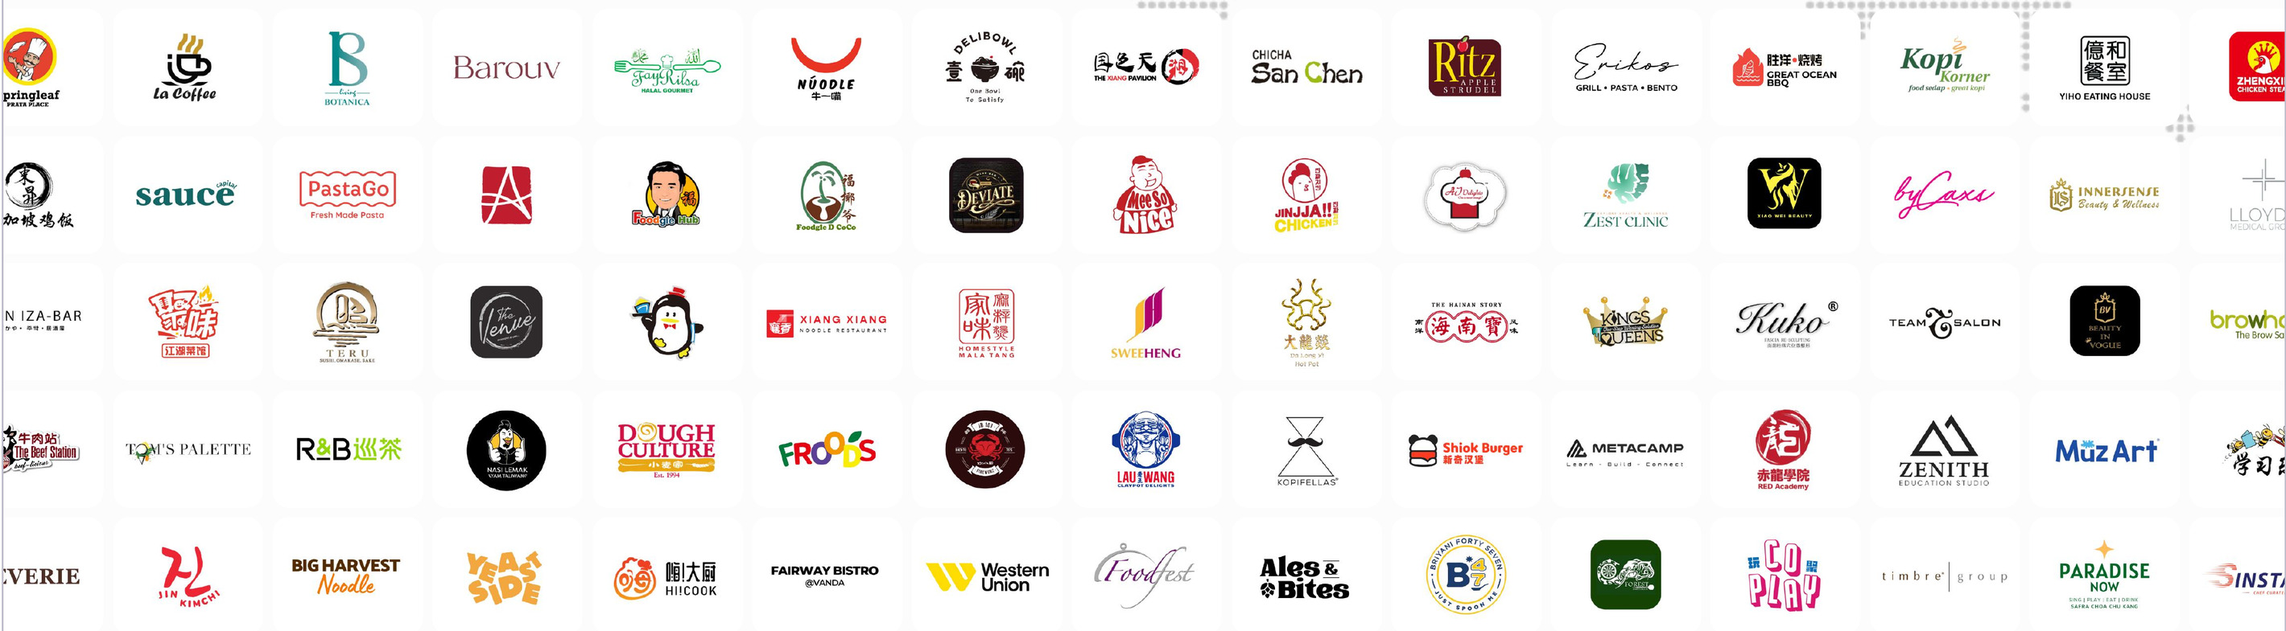
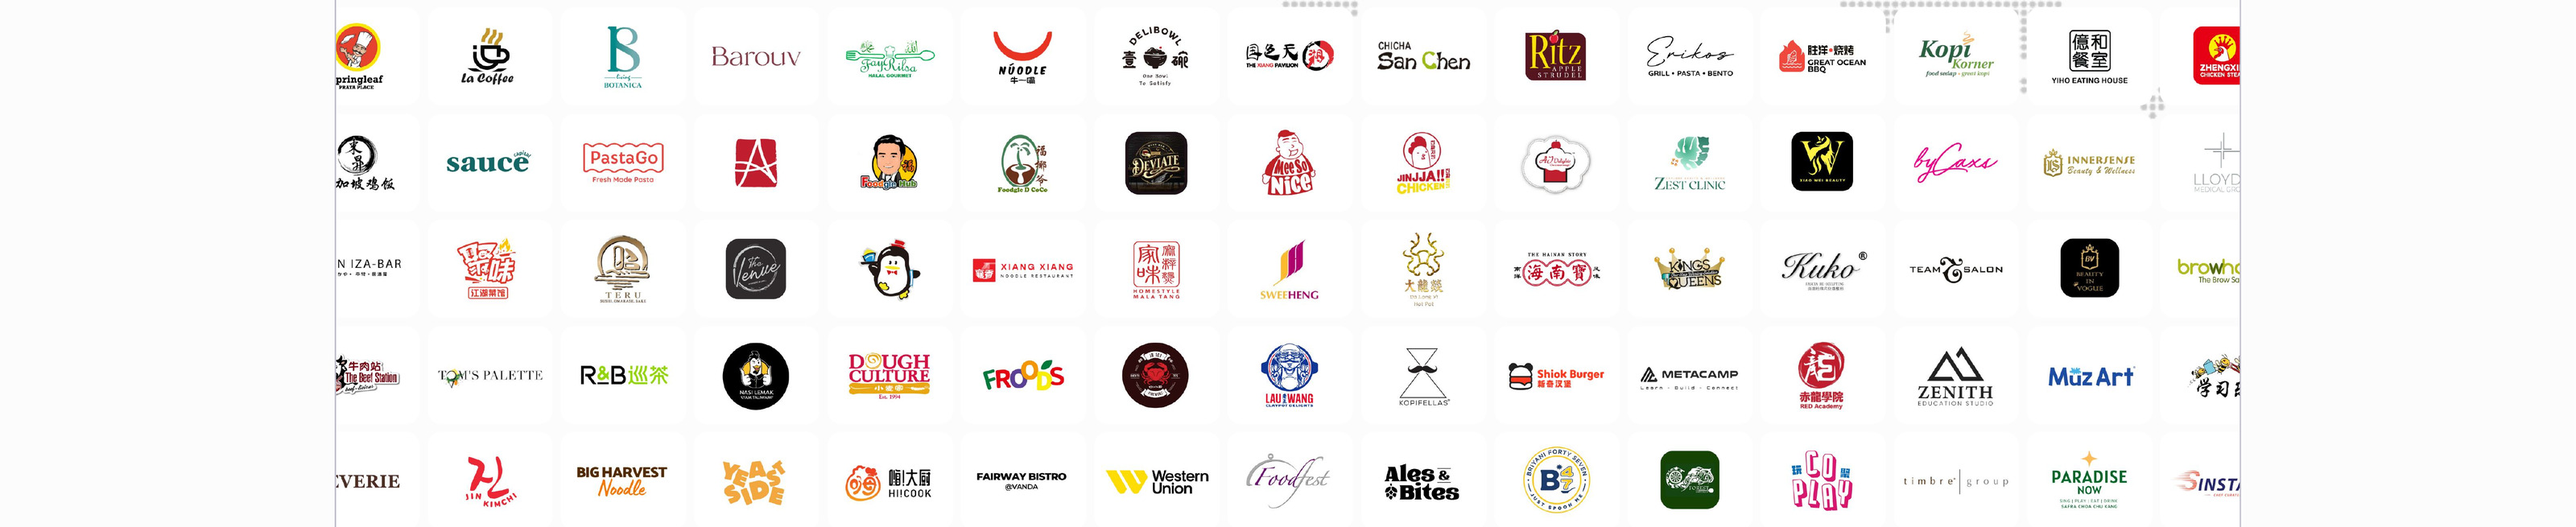
Refine Global presence section against Figma node 2570-3
Exact values from Figma MCP metadata: 360x100 ribbon with 18px label,
60px/60px heading lines, countries block at y=115, partner grid as
full-bleed band (bleeds past the framed column, clipped by viewport),
40px gap to 'And many more!'. Horizontal overflow clipped at app root.

diff --git a/src/components/ApacPartners.tsx b/src/components/ApacPartners.tsx
@@ -1,9 +1,9 @@
 export default function ApacPartners() {
   return (
-    <section className="bg-[#FCFCFC] border-b border-frame overflow-hidden">
+    <section className="bg-[#FCFCFC] border-b border-frame">
       <div className="border-b border-frame pb-3.5">
         <span
-          className="inline-block bg-violet-brand text-white text-lg lg:text-[26px] font-semibold pl-7 lg:pl-[3.8rem] pr-12 lg:pr-[3.4rem] py-5 lg:py-[2.1rem]"
+          className="inline-block bg-violet-brand text-white text-lg font-semibold pl-7 lg:pl-[3.75rem] pr-12 lg:pr-[7.5rem] py-5 lg:py-9 lg:min-w-[360px]"
           style={{ clipPath: 'polygon(0 0, 100% 0, 100% calc(100% - 20px), calc(100% - 20px) 100%, 0 100%)' }}
         >
           Global presence
@@ -12,7 +12,7 @@ export default function ApacPartners() {
 
       <div className="pl-6 lg:pl-16 grid lg:grid-cols-[1fr_1.82fr] gap-6 items-start">
         <h2
-          className="mt-8 lg:mt-[4.5rem] font-display font-extrabold text-3xl sm:text-4xl lg:text-[3.75rem] leading-[1.15] lg:leading-[0.93]"
+          className="mt-8 lg:mt-[3.7rem] font-display font-extrabold text-3xl sm:text-4xl lg:text-[3.75rem] leading-[1.15] lg:leading-none"
           style={{ fontStretch: '87%' }}
         >
           <span className="whitespace-nowrap">More than <span className="text-grass">500+</span></span><br />
@@ -23,8 +23,12 @@ export default function ApacPartners() {
         <img src="/assets/countries.png" alt="DO-XX partner countries across Asia Pacific" className="w-full" />
       </div>
 
-      <img src="/assets/partners-grid.jpg" alt="Partner brand logos" className="w-full mt-2 lg:mt-8" />
-      <p className="mt-6 mb-10 pr-6 lg:pr-16 text-right text-violet-brand font-semibold text-[17px]">And many more!</p>
+      <img
+        src="/assets/partners-grid.jpg"
+        alt="Partner brand logos"
+        className="relative left-1/2 -translate-x-1/2 w-screen max-w-none mt-2"
+      />
+      <p className="mt-7 lg:mt-10 mb-10 pr-6 lg:pr-16 text-right text-violet-brand font-semibold text-[17px]">And many more!</p>
     </section>
   )
 }

diff --git a/src/App.tsx b/src/App.tsx
@@ -14,7 +14,7 @@ import SiteFooter from './components/SiteFooter'
 
 export default function App() {
   return (
-    <div className="bg-white text-ink antialiased">
+    <div className="bg-white text-ink antialiased overflow-x-clip">
       <Header />
       <main>
         <Hero />
